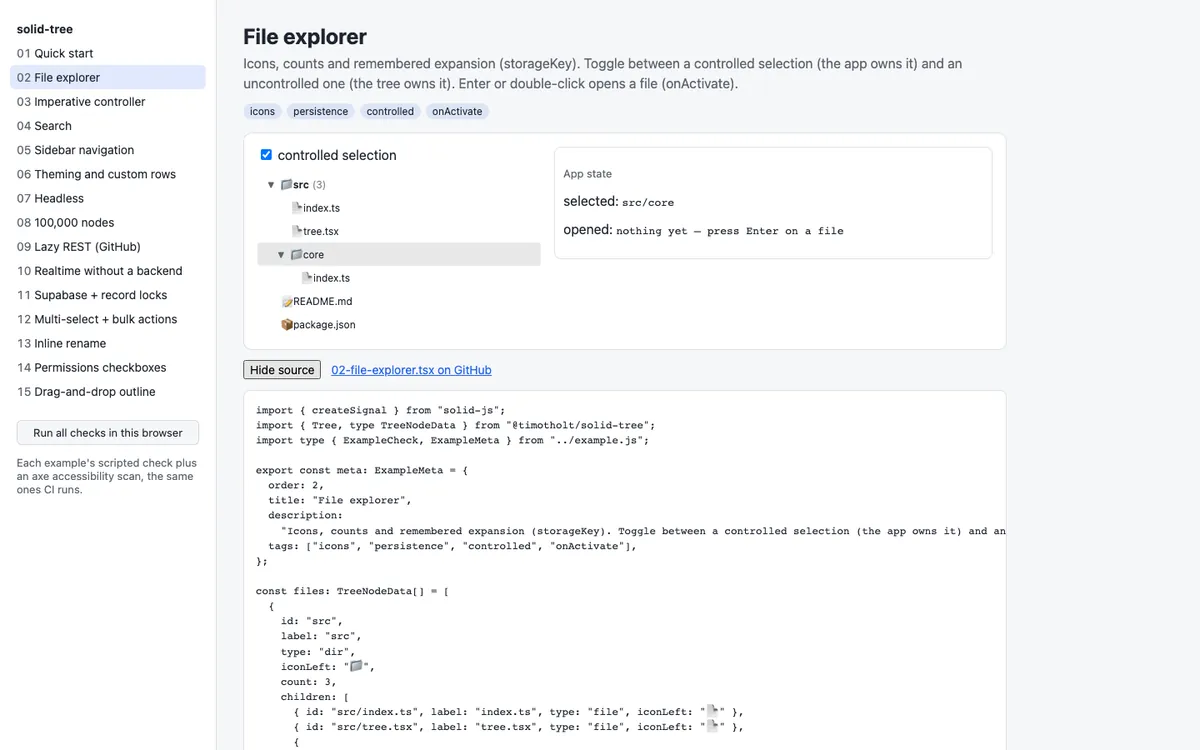
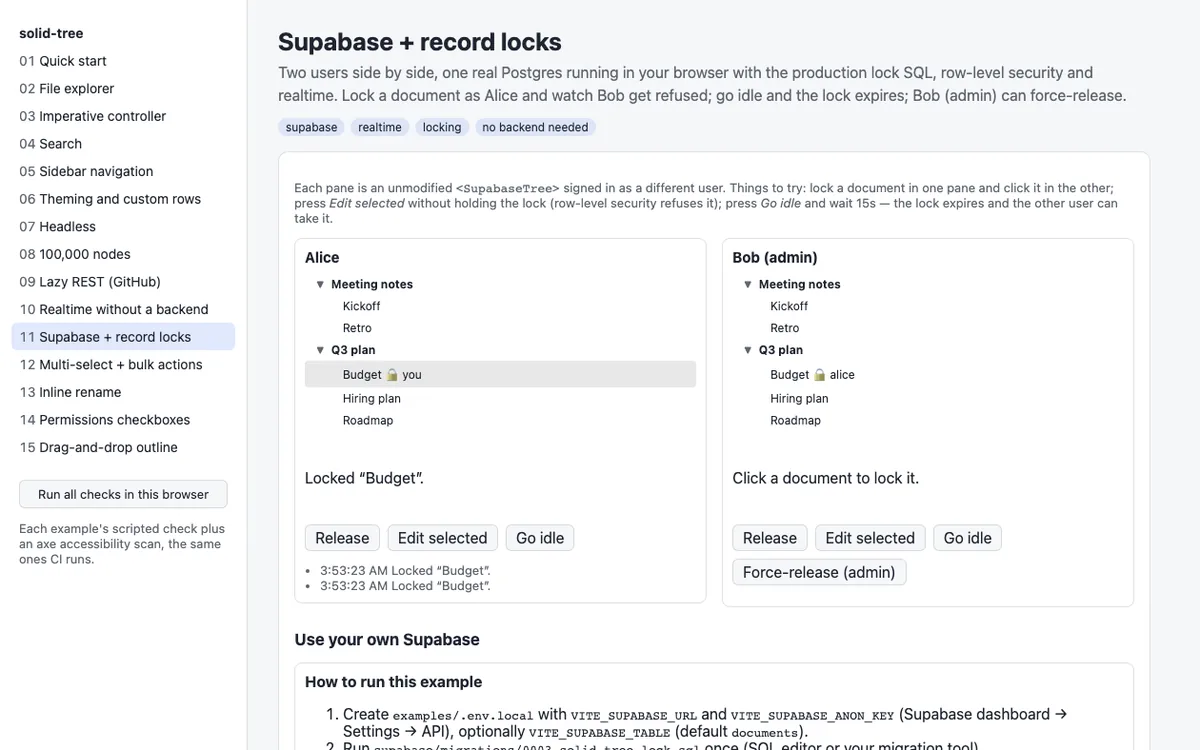
feat(projects): title-first cards; solid-tree multi-user lock screenshot
Cards are one column everywhere: title, screenshot, description, stack,
links; drop the filler YEAR/ROLE/STATUS rows. solid-tree screenshot is
the Supabase record-locks demo with Alice holding a lock that Bob sees.
First project slot stacks the section heading above the card instead of
overlapping it; test that every card fits below the heading.

diff --git a/src/styles/global.css b/src/styles/global.css
@@ -200,3 +200,18 @@ body:has(.color-section) .site-header nav a:hover{color:var(--home-accent)}
 /* Phones: symmetric content margins that clear the rail, readout only while scrolling. */
 @media(max-width:767px){.wrap,.hero.wrap{margin-left:42px;margin-right:42px}.hero.color-section{padding-inline:42px}.progress-rail .rail-readout{opacity:0;transition:opacity .25s}.progress-rail.is-scrolling .rail-readout{opacity:1}}
 @media(max-width:767px){.wrap.hero{margin:0}}
+/* Project card, one column everywhere: title, screenshot, description, stack, links. */
+#projects .project-card,#projects .project-card:has(.has-shot){display:flex;flex-direction:column;max-width:960px;max-height:none}
+#projects .project-card .card-title{margin:0;padding:16px 22px 12px;font-size:clamp(26px,3vw,40px)}
+#projects .project-card .card-title a{display:flex;justify-content:space-between;gap:12px}
+#projects .project-card .project-media,#projects .project-card .project-media.has-shot{aspect-ratio:16/9;height:auto;border-right:0;border-top:1px solid var(--section-accent);border-bottom:1px solid var(--section-accent)}
+#projects .project-card .card-content,#projects .project-card:has(.has-shot) .card-content{padding:14px 22px 16px;display:block}
+#projects .project-function{min-height:0;margin:0 0 8px;font-size:clamp(14px,1.25vw,17px);line-height:1.45}
+#projects .card-stack{margin:0 0 4px;font:500 12px/1.5 'JetBrains Mono',monospace;color:var(--section-accent)}
+@media(min-width:768px){#projects .project-card .project-media,#projects .project-card .project-media.has-shot{max-height:min(46svh,460px)}}
+@media(max-width:767px){#projects .project-card .card-title{padding:10px 14px 8px;font-size:24px}#projects .project-card .project-media.has-shot{aspect-ratio:auto;height:min(40svh,330px)}#projects .project-card .card-content{padding:10px 14px 12px}#projects .project-function{font-size:13px}#projects .card-stack{display:none}}
+/* Project slots stack the (first-slot) heading above the card instead of overlapping it. */
+#projects .project-slot{display:flex;flex-direction:column;justify-content:center;align-items:center;gap:14px}
+#projects .project-slot>.project-intro{align-self:stretch;position:static;margin:0}
+#projects .project-slot:first-child .project-card .project-media{max-height:min(34svh,400px)}
+@media(max-width:767px){#projects .project-slot:first-child .project-card .project-media.has-shot{height:min(30svh,260px)}}

diff --git a/tests/sections.spec.ts b/tests/sections.spec.ts
@@ -105,3 +105,21 @@ for (const viewport of [{ width: 375, height: 812 }, { width: 1440, height: 900 
     }
   });
 }
+
+for (const viewport of [{ width: 375, height: 812 }, { width: 1440, height: 900 }]) {
+  test(`project cards fit their slot below the heading at ${viewport.width}`, async ({ page }) => {
+    await page.setViewportSize(viewport);
+    await page.goto('/');
+    await page.evaluate(() => document.fonts.ready);
+    // Layout offsets ignore entrance transforms, so this checks the settled layout.
+    const slots = await page.$$eval('.project-slot', list => list.map(s => {
+      const card = s.querySelector<HTMLElement>('.project-card')!;
+      const intro = s.querySelector<HTMLElement>('.project-intro');
+      return { top: card.offsetTop, bottom: card.offsetTop + card.offsetHeight, introBottom: intro ? intro.offsetTop + intro.offsetHeight : 0, height: s.clientHeight };
+    }));
+    for (const s of slots) {
+      expect(s.top).toBeGreaterThanOrEqual(s.introBottom);
+      expect(s.bottom).toBeLessThanOrEqual(s.height);
+    }
+  });
+}
